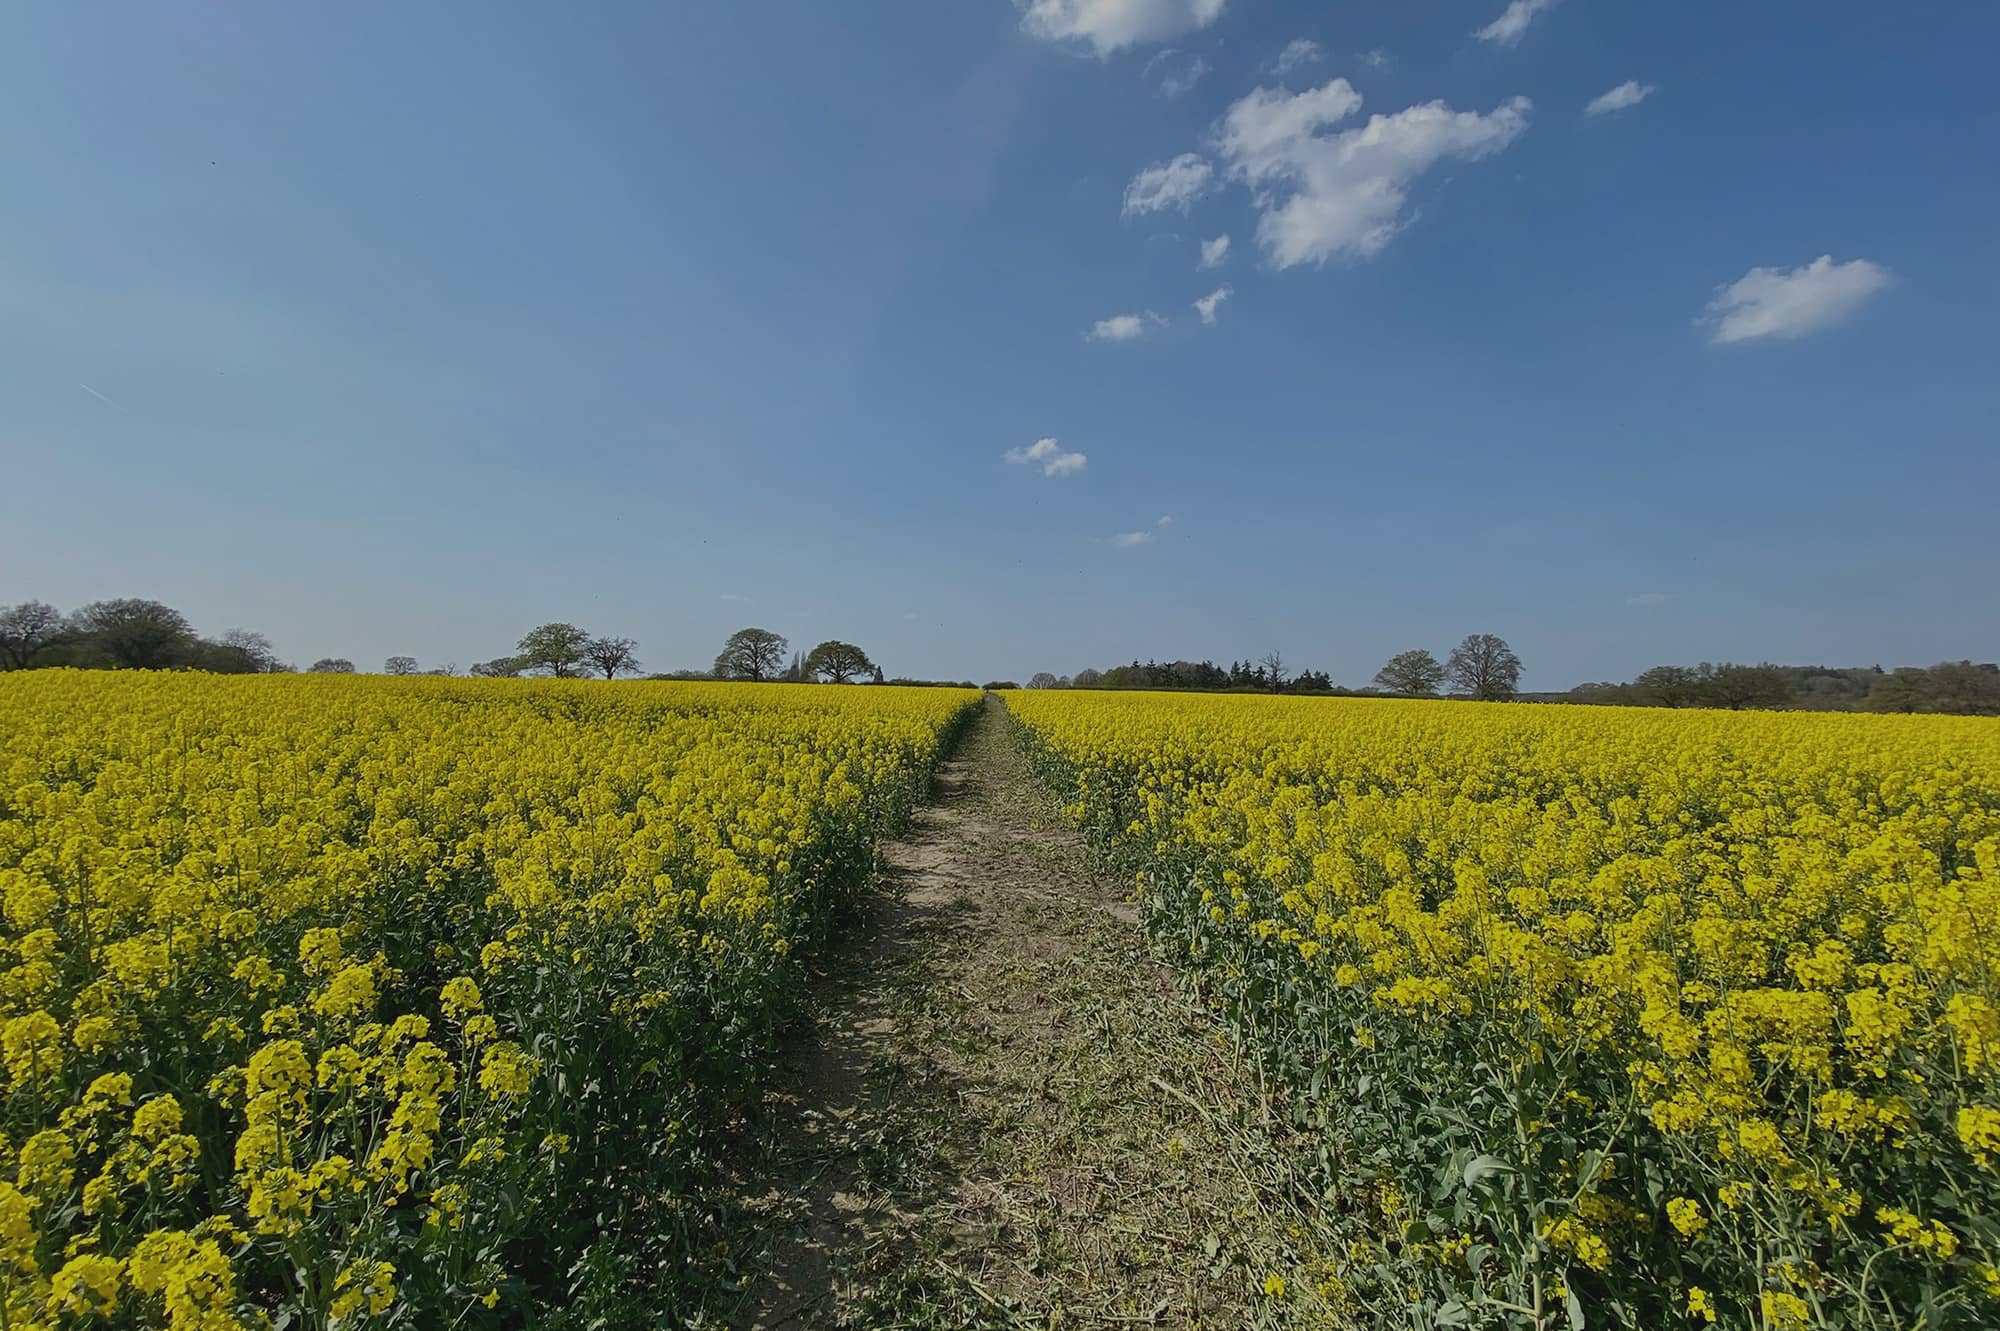
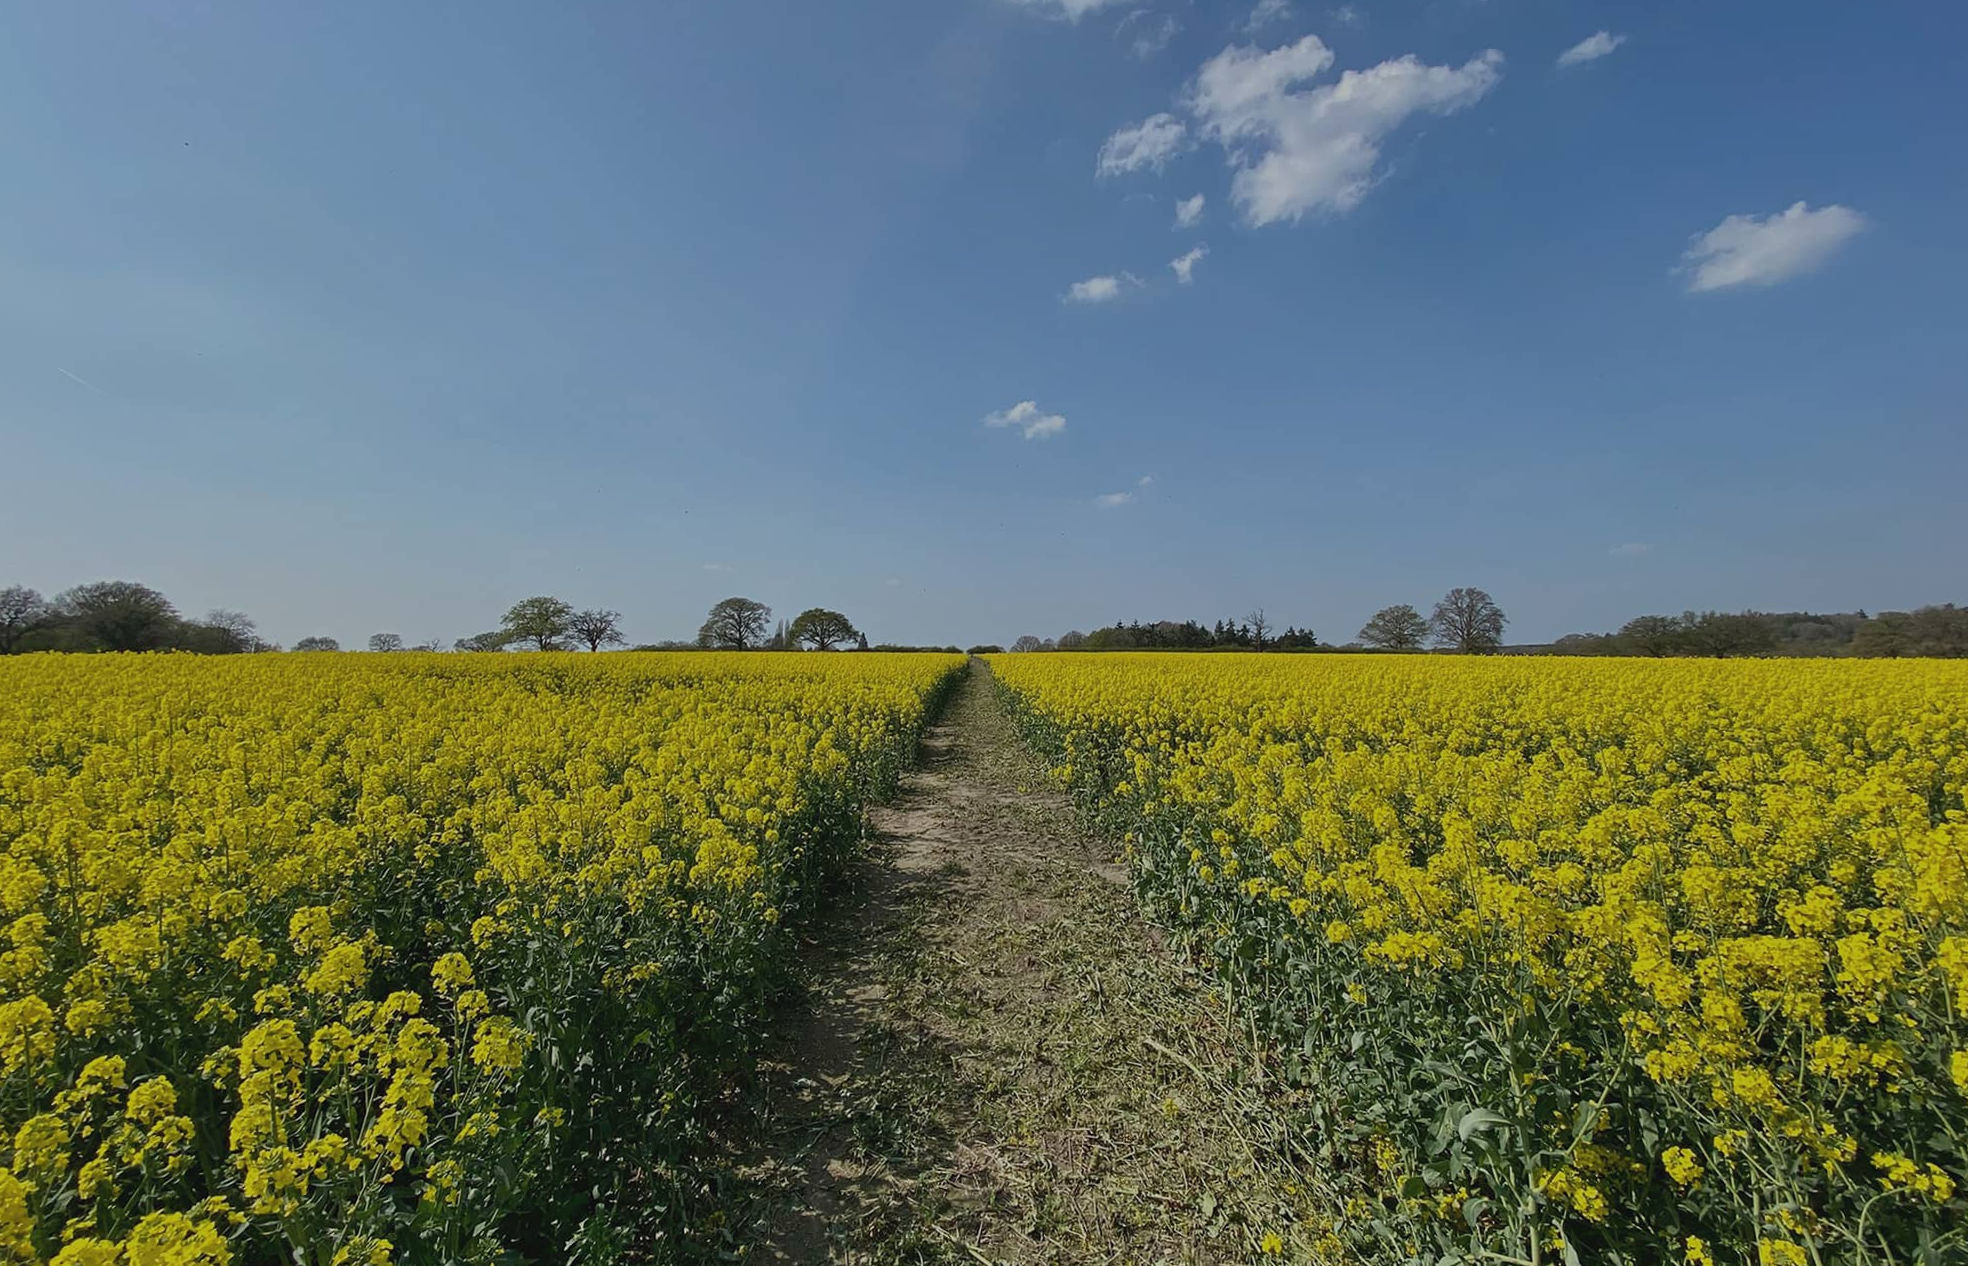
DevDesk changes: 937, 943, 957 (#694)
* ABS: change the color of "Leave Training Site"

* BCH: create sub-menus in "Forums"-DEVDESK-957

* Changing NFP and PA terminology-DEVDESK-937

* change the text color

* update the BCH-homepage-min image

* update bch-homepage-min image position

diff --git a/app/templates/bch/header.html b/app/templates/bch/header.html
@@ -115,10 +115,19 @@
                         <li><a class="bs5 dropdown-item fw-bold new-css-dropdown-menu-item" rel="noopener" translation-url href="/kb/articles/619c55580c1ff000011c1c46/Contact-us/bch">Contact us</a></li>
                     </ul>
                 </li>
-                <li class="bs5 nav-item"><a href="https://bch.cbd.int/onlineconferences/"
-                        class="bs5 fw-bold new-css-main-nav-link nav-link link-dark px-2 px-md-4 ">forums</a></li>
+             
+                <li hover-effect=".dropdown-menu" class="bs5 nav-item dropdown">
+                    <a href="#" class="bs5 fw-bold new-css-main-nav-link nav-link link-dark px-2 px-md-4  dropdown-toggle"
+                        type="button" id="dropdownMenuButton3" data-bs-toggle="dropdown" aria-expanded="false">forums</a>
+                    <ul class="bs5 dropdown-menu new-css-dropdown-menu" aria-labelledby="dropdownMenuButton3">
+                        <li><a class="bs5 dropdown-item fw-bold new-css-dropdown-menu-item" rel="noopener" translation-url href="https://bch.cbd.int/onlineconferences/">Forums and Portals</a></li>
+                        <li><a class="bs5 dropdown-item fw-bold new-css-dropdown-menu-item" rel="noopener" translation-url href="https://bch.cbd.int/onlineconferences/portal_art20/nfps/newBCHforum.shtml">BCH on BCH Forum</a></li>
+                        <li><a class="bs5 dropdown-item fw-bold new-css-dropdown-menu-item" rel="noopener" translation-url target="_blank" href="https://legacy-bch.cbd.int/onlineconferences/portal_art20/unep-gef/0004.shtml">UNEP Regional Advisors Forum</a></li>
+                    </ul>
+                </li>
+    
                 <li ng-if="isTRG" class="bs5 nav-item"><a href="https://bch.cbd.int/"
-                        class="bs5 fw-bold new-css-main-nav-link nav-link link-dark px-2 px-md-4 ">Leave Training Site</a></li>
+                    style="color: black !important;"    class="bs5 bg-yellow fw-bold new-css-main-nav-link nav-link link-dark px-2 px-md-4 ">Leave Training Site</a></li>
             </ul>
             <ul class="bs5 nav">
                 <li hover-effect=".dropdown-menu" class="bs5 nav-item dropdown ">

diff --git a/app/views/register/requests.html b/app/views/register/requests.html
@@ -173,7 +173,8 @@
                                                 <span ng-if="task.workflow.type.name != 'publishReferenceRecord'" ng-class="{'color-red': roles.isPublishingAuthority }"> 
                                                         <i class="fa fa-star" ng-if="roles.isPublishingAuthority"></i> PENDING    
                                                         <span ng-if="roles.isPublishingAuthority"> YOUR </span>
-                                                        <span ng-if="!roles.isPublishingAuthority"> PA </span>
+                                                        <span ng-if="!roles.isPublishingAuthority && isBch"> BCH-NFP </span>
+                                                        <span ng-if="!roles.isPublishingAuthority && !isBch"> PA </span>
                                                         APPROVAL 
                                                     </span>
                                             </div>

diff --git a/app/templates/absch/header.html b/app/templates/absch/header.html
@@ -126,7 +126,7 @@
             <li class="bs5 nav-item"><a href="/forums"
                     class="bs5 fw-bold new-css-main-nav-link nav-link link-dark px-2 px-md-4 ">forums</a></li>
             <li ng-if="isTRG" class="bs5 nav-item"><a href="https://absch.cbd.int/en/"
-                class="bs5 fw-bold new-css-main-nav-link nav-link link-dark px-2 px-md-4 ">Leave Training Site</a></li>
+                class="bs5 bg-yellow fw-bold new-css-main-nav-link nav-link link-dark px-2 px-md-4 ">Leave Training Site</a></li>
         </ul>
         <ul class="bs5 nav">
             <li class="bs5 nav-item"><a rel="noopener" translation-url href="https://www.cbd.int/abs" target="new_"

diff --git a/app/views/register/requests.js b/app/views/register/requests.js
@@ -24,6 +24,7 @@ import 'views/forms/view/record-loader.directive';
                 $scope.loading = true;
                 $scope.filterStatus = "Pending";
                 $scope.user = $rootScope.user;
+                $scope.isBch = realm.is('BCH');
                 
                 $scope.currentPage=0;
                 $scope.itemCount=0;

diff --git a/app/css/new-css.css b/app/css/new-css.css
@@ -118,7 +118,7 @@
 
 .new-css-home-section-top-bch {
     background-image:url('/app/img/new-home/bch-homebg-min.jpeg');
-    background-position: bottom; 
+    background-position: center; 
     background-size: cover; 
     background-repeat: no-repeat;
 }
